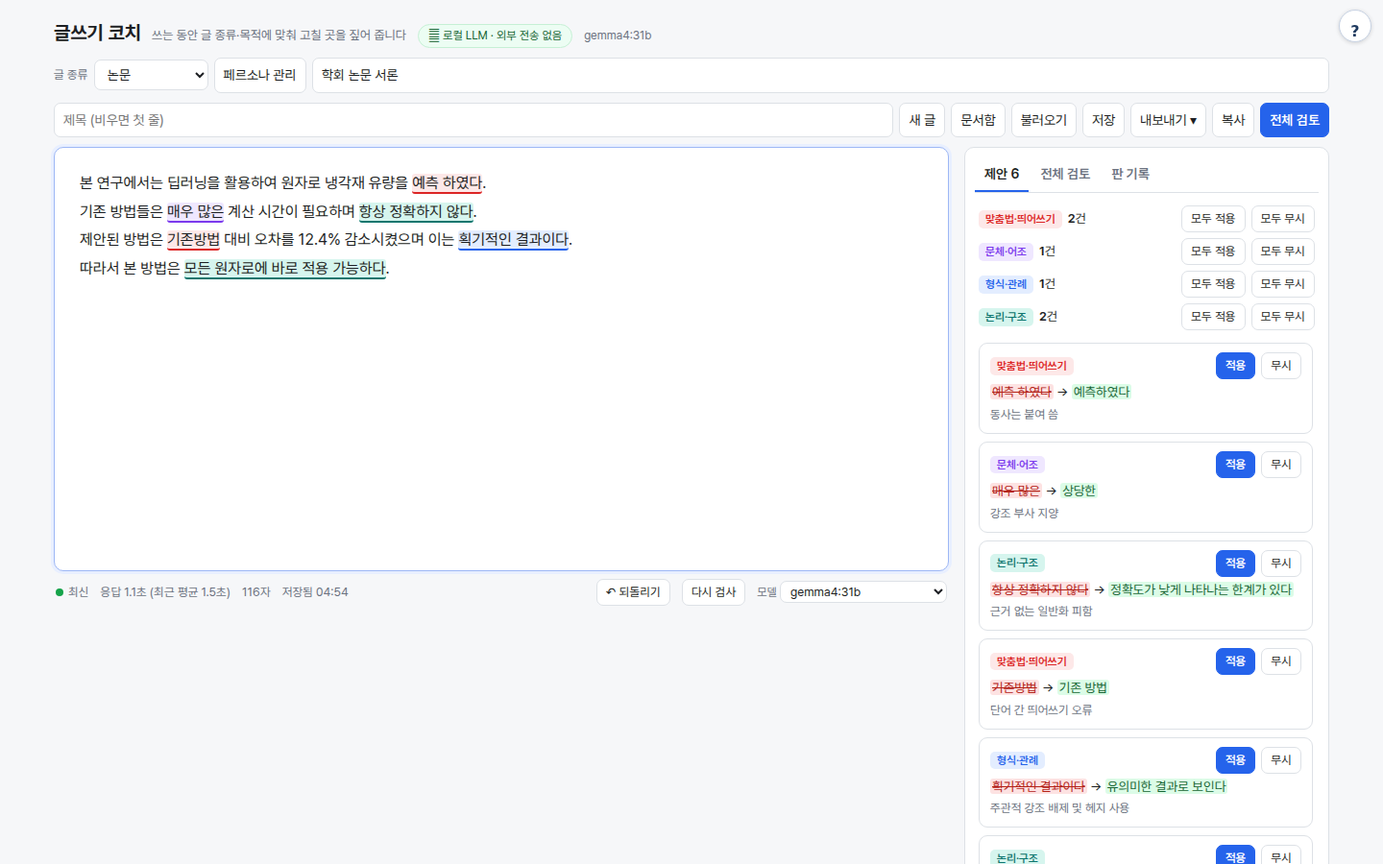
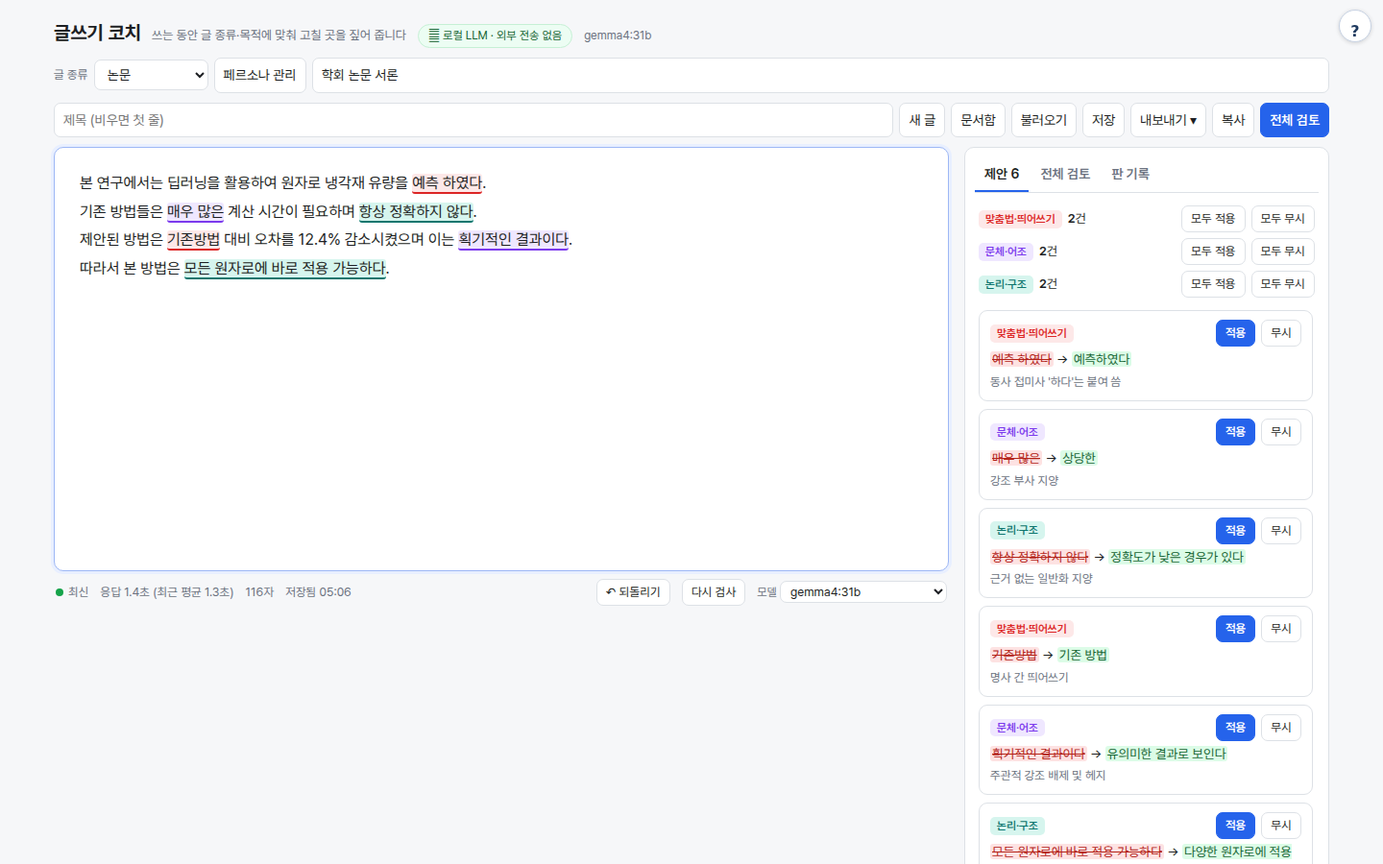
맞춤법 검사 분리·최소 수정·글 종류 어긋남 안내
- 맞춤법·띄어쓰기 전용 검사(작은 프롬프트·예시·어절 단위)를 따로 두고 먼저 표시, 문체 검사는 맞춤법을 내지 않음
- 고정 시험 15개 오류: 검출 8/15 → 15/15 (예시에 없는 오류 8/8)
- 문장 60% 넘게 바꾸는 제안은 문체·논리만, 나머지는 글자 비교로 바뀐 어절만 떼어 냄; 겹치면 맞춤법·짧은 쪽 우선
- 글 종류가 어긋나 보이면 한 번 묻는 안내(문장 끝 모양 + 전체 검토 판단), 그동안은 최소 조각만
- 사실 확인은 확인 가능한 구체적 내용만, 맞는 값이 있으면 적용 가능
- 대기 0.8초, 한 번에 한 요청(쓰는 문단 우선) — 맞춤법 밑줄 중앙 2.0초, 전부 3.3초

Changed region(s): [[0.6875, 0.28, 0.9375, 1.0], [0.8438, 0.3422, 0.9375, 0.56], [0.0938, 0.6533, 0.25, 0.7156]]

diff --git a/app.py b/app.py
@@ -198,39 +198,140 @@ CHECK_SYS = """너는 한국어 글쓰기 코치다. [글 종류]의 관례와 [
 [목적] {purpose}
 
 출력 JSON: {{"s":[{{"p":"문단번호","o":"원문 일부","n":"고친 말","r":"이유","c":"분류"}}]}}
-- o: 그 문단의 글자를 그대로 복사한 연속 구간(띄어쓰기·문장부호까지 같게). 고칠 곳을 포함하는 가장 짧은 구간(보통 2~15자).
-  맞춤법·띄어쓰기는 틀린 어절마다 따로 잡는다. 문장 전체를 다시 쓰는 제안은 꼭 필요할 때만 문단당 1개(맞춤법 제안과 겹쳐도 됨).
-- n: o 자리에 그대로 넣을 말. 뜻·숫자·고유명사는 바꾸지 않는다. 글에 없는 내용(관련 근거·날짜·문서번호 등)을 지어 넣거나 ○○·XX 자리표시를 쓰지 않는다 — 그런 지적은 하지 않는다.
-- r: 이유, 25자 이내.
-- c: 맞춤법(맞춤법·띄어쓰기·문장부호) | 문체(어조·높임·종결) | 형식(이 글 종류의 관례·표기) | 명료(모호·중복·장황) | 논리(연결·순서·근거) | 사실(확인할 날짜·수치·고유명사: n 은 o 와 같게, r 에 확인할 점)
-- 문단당 최대 6개, 확실한 것만. 없으면 {{"s":[]}}."""
+- 맞춤법·띄어쓰기는 다른 검사가 따로 하니 내지 않는다.
+- o: 그 문단의 글자를 그대로 복사한 연속 구간(띄어쓰기·문장부호까지 같게). 고칠 곳만 담은 가장 짧은 구간(보통 한두 어절).
+  문장을 통째로 바꾸는 제안은 문체·논리에서 꼭 필요할 때만, 문단당 1개.
+- n: o 자리에 그대로 넣을 말. 뜻·숫자·고유명사는 바꾸지 않는다. 글에 없는 내용(관련 근거·날짜·문서번호 등)을 지어 넣거나 ○○·XX 자리표시를 쓰지 않는다.
+- 글이 [글 종류]와 많이 달라 보이면(예: 공문서인데 메신저 말투) 문장 구조를 갈아엎지 말고 꼭 필요한 어휘·표기만 짚는다.
+- r: 이유, 20자 이내.
+- c: 문체(어조·높임·종결) | 형식(이 글 종류의 관례·표기) | 명료(모호·중복·장황) | 논리(연결·순서·근거) | 사실
+- 사실: 숫자·날짜·이름·인용처럼 확인할 수 있는 구체적 내용이 틀려 보이거나 서로 맞지 않을 때만(없는 날짜, 요일 불일치, 합계·인원 불일치 등). n 은 맞는 값(모르면 o 그대로), r 에 확인할 점. 막연한 의심은 내지 않는다.
+- 문단당 최대 4개, 확실한 것만. 없으면 {{"s":[]}}."""
+
+SPELL_SYS = """한국어 맞춤법·띄어쓰기 교정기. 문단마다 틀린 어절만 찾는다. 어조·어휘·문장 구조는 건드리지 않는다.
+출력 JSON: {{"s":[{{"p":"문단번호","o":"틀린 어절(문단 그대로)","n":"고친 어절","r":"15자 이내 이유"}}]}}
+- o 는 한 어절(띄어쓰기 오류면 두 어절)만. 문장 통째 금지. 틀린 곳이 없으면 {{"s":[]}}.
+- 글 종류: {kind}. 공문서·논문·보고서면 합성어 띄어쓰기 원칙도 적용(고속카메라→고속 카메라).
+자주 틀리는 예: 시일내에→시일 내에 / 할때→할 때 / 되요→돼요 / 몇일→며칠 / 않되요→안 돼요 / 어의없다→어이없다 / 학생으로써(자격)→학생으로서 / 대화로서(수단)→대화로써"""
+
+FULL_OK = ("문체", "논리")   # 문장을 크게 바꾸는 제안은 이 분류에서만
 
 
-def check(units, persona, purpose="", model=MODEL, stop=lambda: False):
-    """units = [{"id": "p3", "text": "..."}] → 자리가 확인된 제안 목록 + 버린 개수."""
+def _sentence_len(text, at, end):
+    """o 가 걸친 문장(들)의 길이 — 문장 끝(. ? ! 줄바꿈) 기준."""
+    a = max(text.rfind(ch, 0, at) for ch in ".?!\n") + 1
+    ends = [i for i in (text.find(ch, end) for ch in ".?!\n") if i >= 0]
+    return (min(ends) + 1 if ends else len(text)) - a
+
+
+def _split(o, n):
+    """글자 단위로 비교해 바뀐 곳을 어절 경계까지 넓힌 조각들 → [(o 안 위치, 원문 조각, 고친 조각)]. 통째로 바뀌었으면 []."""
+    from difflib import SequenceMatcher
+    sm, ps = SequenceMatcher(None, o, n, autojunk=False), []
+    if sm.ratio() < 0.5:  # 거의 다 바뀜 = 다시 쓰기 → 나누지 않음
+        return []
+    for tag, i1, i2, j1, j2 in sm.get_opcodes():
+        if tag == "equal":
+            continue
+        a, b = i1, i2
+        while a > 0 and not o[a - 1].isspace():
+            a -= 1
+        while b < len(o) and not o[b].isspace():
+            b += 1
+        if ps and a <= ps[-1][1]:  # 같은 어절(또는 맞닿은 곳)이면 합침
+            ps[-1][1], ps[-1][3] = b, j2 + (b - i2)
+        else:
+            ps.append([a, b, j1 - (i1 - a), j2 + (b - i2)])
+    if not ps or (len(ps) == 1 and ps[0][0] == 0 and ps[0][1] == len(o)):
+        return []
+    return [(a, o[a:b], n[x:y].strip()) for a, b, x, y in ps]
+
+
+def _accept(raw, by, cat_default, dropped, minimal=False):
+    """LLM 이 낸 제안 하나 → 자리 확인·정리된 제안 목록(0개 이상)."""
+    if not isinstance(raw, dict):
+        dropped.append("형식")
+        return []
+    pid, o, n = str(raw.get("p", "")).strip("[] "), str(raw.get("o") or ""), str(raw.get("n") or "")
+    if pid not in by and "p" + pid in by:  # "0" 처럼 p 를 빼고 답하는 경우
+        pid = "p" + pid
+    if pid not in by and len(by) == 1:
+        pid = next(iter(by))
+    c = cat_default or next((k for k in CATS if k in str(raw.get("c", ""))), "명료")
+    r, text = str(raw.get("r") or "")[:80], by.get(pid)
+    if not cat_default and c == "맞춤법":  # 문체 검사는 맞춤법을 내지 않는다(맞춤법 검사 몫)
+        c = None
+    if not c or not text or not o or o not in text or (o == n and c != "사실") or PLACEHOLDER.search(n) or len(n) > 2 * len(o) + 20:
+        dropped.append(o)
+        return []
+    at = text.index(o)
+    big = len(o) >= 15 and len(o) > 0.6 * _sentence_len(text, at, at + len(o)) and c != "사실"
+    if big and minimal:  # 글 종류가 어긋나 보일 때: 문장 갈아엎기는 내지 않고 최소 조각만
+        parts = [x for x in _split(o, n) if x[1] != x[2]]
+        if not parts or len(parts) > 3:
+            dropped.append(o)
+            return []
+        return [{"p": pid, "o": po, "n": pn, "r": r, "c": c, "at": at + off} for off, po, pn in parts]
+    if (big and c not in FULL_OK) or (cat_default == "맞춤법" and len(o.split()) > 2):  # 크게 바꾸는 제안 → 최소 조각으로
+        parts = _split(o, n)
+        if not parts or len(parts) > 3:
+            dropped.append(o)
+            return []
+        return [{"p": pid, "o": po, "n": pn, "r": r, "c": c, "at": at + off} for off, po, pn in parts if po != pn]
+    if big and not r:
+        dropped.append(o)
+        return []
+    return [{"p": pid, "o": o, "n": n, "r": r, "c": c, "at": at}]
+
+
+def _dedupe(items):
+    """같은 문단에서 겹치면 맞춤법, 그다음 짧은 쪽을 남긴다. 단, 문체·논리의 문장 다시 쓰기는 겹쳐도 카드로 남긴다(밑줄은 짧은 쪽)."""
+    out, seen = [], set()
+    for s in sorted(items, key=lambda s: (s["c"] != "맞춤법", len(s["o"]))):   # 맞춤법(어절 단위) 먼저, 그다음 짧은 것
+        if (s["p"], s["o"], s["n"]) in seen:
+            continue
+        clash = any(t["p"] == s["p"] and s["at"] < t["at"] + len(t["o"]) and t["at"] < s["at"] + len(s["o"]) for t in out)
+        if clash and not (s["c"] in FULL_OK and len(s["o"]) >= 15):
+            continue
+        seen.add((s["p"], s["o"], s["n"]))
+        out.append(s)
+    return sorted(out, key=lambda s: (s["p"], s["at"]))
+
+
+def check(units, persona, purpose="", model=MODEL, stop=lambda: False, passes=("spell", "style"), minimal=False):
+    """units = [{"id": "p3", "text": "..."}] → 자리가 확인된 제안 목록 + 버린 개수.
+    맞춤법 검사(작은 프롬프트, 어절 단위)와 문체·형식 검사를 따로 묻는다. 화면은 맞춤법 → 문체 순으로 따로 불러 먼저 온 것부터 보이고,
+    둘 다 부르면(CLI·기본) 동시에 돌려 합친다."""
     units = [{"id": str(u["id"])[:20], "text": str(u["text"])[:3000]} for u in units if str(u.get("text", "")).strip()][:20]
     if not units:
         return {"s": [], "dropped": 0}
-    system = CHECK_SYS.format(persona=persona_text(persona), purpose=(purpose or "").strip()[:200] or "(없음)")
+    p = clean_persona(persona)
     user = "\n".join(f"[{u['id']}] {u['text']}" for u in units)
-    got = llm(system, user, model, stop).get("s") or []
-    by = {u["id"]: u["text"] for u in units}
-    out, dropped, seen = [], 0, set()
-    for s in got if isinstance(got, list) else []:
-        if not isinstance(s, dict):
-            continue
-        pid, o, n = str(s.get("p", "")).strip("[] "), str(s.get("o") or ""), str(s.get("n") or "")
-        if pid not in by and len(by) == 1:
-            pid = next(iter(by))
-        c = next((k for k in CATS if k in str(s.get("c", ""))), "명료")
-        text = by.get(pid)
-        if (not text or not o or o not in text or (o == n and c != "사실") or (pid, o) in seen
-                or PLACEHOLDER.search(n) or len(n) > 2 * len(o) + 20):  # 자리표시·내용 지어내기는 버림
-            dropped += 1
-            continue
-        seen.add((pid, o))
-        out.append({"p": pid, "o": o, "n": n, "r": str(s.get("r") or "")[:80], "c": c, "at": text.index(o)})
-    return {"s": out, "dropped": dropped}
+    jobs = {"style": (CHECK_SYS.format(persona=persona_text(p), purpose=(purpose or "").strip()[:200] or "(없음)"), None),
+            "spell": (SPELL_SYS.format(kind=p["name"]), "맞춤법")}
+    jobs = {k: v for k, v in jobs.items() if k in passes}
+    res = {}
+
+    def run(k):
+        try:
+            res[k] = llm(jobs[k][0], user, model, stop).get("s") or []
+        except Exception as e:  # noqa: BLE001 — 한쪽이 실패해도 다른 쪽 결과는 살린다
+            res[k] = e
+    ts = [threading.Thread(target=run, args=(k,)) for k in jobs]
+    [t.start() for t in ts]
+    [t.join() for t in ts]
+    errs = [v for v in res.values() if isinstance(v, Exception)]
+    if any(isinstance(e, Cancelled) for e in errs):
+        raise Cancelled()
+    if len(errs) == len(jobs):
+        raise errs[0]
+    by, dropped, items = {u["id"]: u["text"] for u in units}, [], []
+    for k, got in res.items():
+        if isinstance(got, list):
+            for raw in got:
+                items += _accept(raw, by, jobs[k][1], dropped, minimal)
+    out = _dedupe(items)
+    return {"s": out, "dropped": len(dropped) + len(items) - len(out), **({"partial": str(errs[0])[:120]} if errs else {})}
 
 
 REVIEW_SYS = """너는 한국어 글쓰기 코치다. 글 전체를 [글 종류]의 관례와 [목적]에 비추어 검토한다.
@@ -238,7 +339,7 @@ REVIEW_SYS = """너는 한국어 글쓰기 코치다. 글 전체를 [글 종류]
 [목적] {purpose}
 
 문장 단위 맞춤법은 빼고, 구조·흐름·빠진 요소·목적 부합을 본다(예: 공문의 '끝.'·붙임 누락, 메일의 기한 누락, 논문의 근거 없는 주장).
-출력 JSON: {{"summary":"총평 2문장 이내","good":["잘된 점(최대 3)"],"issues":[{{"q":"관련 원문 일부(그대로 복사, 글 전체 문제면 빈 문자열)","t":"문제","f":"고칠 방향 또는 예시 문장","c":"형식|논리|명료|문체|사실"}}]}}
+출력 JSON: {{"kind":"이 글에 가장 맞는 글 종류 — {kinds} 중 하나","summary":"총평 2문장 이내","good":["잘된 점(최대 3)"],"issues":[{{"q":"관련 원문 일부(그대로 복사, 글 전체 문제면 빈 문자열)","t":"문제","f":"고칠 방향 또는 예시 문장","c":"형식|논리|명료|문체|사실"}}]}}
 issues 는 중요한 순서로 최대 7개."""
 
 
@@ -246,14 +347,15 @@ def review(text, persona, purpose="", model=MODEL):
     text = (text or "").strip()[:12000]
     if not text:
         raise ValueError("검토할 글이 없습니다")
-    j = llm(REVIEW_SYS.format(persona=persona_text(persona), purpose=(purpose or "").strip()[:200] or "(없음)"), text, model)
+    kinds = [p["name"] for p in BUILTIN]
+    j = llm(REVIEW_SYS.format(persona=persona_text(persona), purpose=(purpose or "").strip()[:200] or "(없음)", kinds="·".join(kinds)), text, model)
     issues = []
     for i in j.get("issues") or []:
         if isinstance(i, dict) and i.get("t"):
             q = str(i.get("q") or "")
             issues.append({"q": q if q and q in text else "", "t": str(i["t"])[:200], "f": str(i.get("f") or "")[:400],
                            "c": next((k for k in CATS if k in str(i.get("c", ""))), "논리")})
-    return {"summary": str(j.get("summary") or "")[:400], "good": [str(x)[:200] for x in (j.get("good") or [])][:3], "issues": issues[:7]}
+    return {"kind": next((k for k in kinds if k == str(j.get("kind") or "").strip()), ""), "summary": str(j.get("summary") or "")[:400], "good": [str(x)[:200] for x in (j.get("good") or [])][:3], "issues": issues[:7]}
 
 
 # ── 문서 저장·기록 ──────────────────────────────────────────────────────────
@@ -456,7 +558,8 @@ class H(BaseHTTPRequestHandler):
                 rid, t0 = (who, str(req.get("rid") or "")), time.time()
                 stop = lambda: rid in CANCEL or _gone(self.connection)
                 try:
-                    r = check(req.get("units") or [], req.get("persona") or BUILTIN[0], req.get("purpose") or "", req.get("model") or MODEL, stop)
+                    ps = (req["pass"],) if req.get("pass") in ("spell", "style") else ("spell", "style")
+                    r = check(req.get("units") or [], req.get("persona") or BUILTIN[0], req.get("purpose") or "", req.get("model") or MODEL, stop, ps, bool(req.get("minimal")))
                 except Cancelled:
                     return self._send({"cancelled": True}, code=499)
                 finally:

diff --git a/selftest.py b/selftest.py
@@ -17,14 +17,17 @@ def fake(system, user, model=None, stop=lambda: False):
     if stop():
         raise app.Cancelled()
     if "글 전체를" in system:
-        return {"summary": "요청이 뒤에 있습니다.", "good": ["날짜 표기 정확"], "issues": [
+        return {"kind": "메시지·메일", "summary": "요청이 뒤에 있습니다.", "good": ["날짜 표기 정확"], "issues": [
             {"q": "참석 바랍니다요", "t": "요청이 끝에 묻힘", "f": "첫 항목으로", "c": "논리"},
             {"q": "본문에 없는 말", "t": "붙임 누락", "f": "붙임 표기", "c": "형식 관례"}]}
+    if "교정기" in system:  # 맞춤법 검사: 어절 단위
+        return {"s": [{"p": "p0", "o": "월요일 에", "n": "월요일에", "r": "조사는 붙여 씀"},
+                      {"p": "p0", "o": "다음주 월요일 에 할", "n": "다음 주 월요일에 할", "r": "띄어쓰기"},   # 3어절 → 조각으로 나눔
+                      {"p": "p0", "o": "없는 조각", "n": "x"}]}                                            # 문단에 없음 → 버림
     return {"s": [
-        {"p": "p0", "o": "월요일 에", "n": "월요일에", "r": "조사는 붙여 씀", "c": "맞춤법"},
+        {"p": "p0", "o": "월요일 에", "n": "월요일에", "r": "맞춤법은 맞춤법 검사 몫", "c": "맞춤법"},   # 문체 검사의 맞춤법 → 버림
         {"p": "[p0]", "o": "바랍니다요", "n": "바람", "r": "공문 종결", "c": "문체·어조"},
-        {"p": "p0", "o": "없는 조각", "n": "x", "r": "", "c": "맞춤법"},          # 문단에 없음 → 버림
-        {"p": "p0", "o": "월요일 에", "n": "월요일에", "r": "중복", "c": "맞춤법"},  # 같은 자리 중복 → 버림
+        {"p": "p0", "o": "회의는 다음주 월요일 에 할 예정임.", "n": "회의는 다음 주 월요일에 열 예정임.", "r": "x", "c": "형식"},  # 문장 대부분 → 조각, 겹치면 짧은 쪽
         {"p": "p1", "o": "12,000,000원", "n": "12,000,000원", "r": "견적서 금액과 대조", "c": "사실"},
         {"p": "p1", "o": "견적", "n": "견적", "r": "같은 말", "c": "명료"},          # 바뀐 것 없음 → 버림
         {"p": "p9", "o": "x", "n": "y", "c": "맞춤법"}]}
@@ -48,11 +51,19 @@ assert app.clean_persona({"name": "x", "rules": "a\n\n b "})["rules"] == ["a", "
 # 2) 문단 검사: 원문에 있는 조각만, 분류 정규화, 위치
 units = [{"id": "p0", "text": "회의는 다음주 월요일 에 할 예정임. 참석 바랍니다요."}, {"id": "p1", "text": "금액: 12,000,000원(견적 기준)"}]
 r = app.check(units, P, "부서장 승인 요청")
-got = [(s["p"], s["o"], s["c"]) for s in r["s"]]
-assert got == [("p0", "월요일 에", "맞춤법"), ("p0", "바랍니다요", "문체"), ("p1", "12,000,000원", "사실")], got
-assert r["dropped"] == 4, r["dropped"]
+got = [(s["p"], s["o"], s["n"], s["c"]) for s in r["s"]]
+assert got == [("p0", "다음주", "다음 주", "맞춤법"), ("p0", "월요일 에", "월요일에", "맞춤법"), ("p0", "할", "열", "형식"),
+               ("p0", "바랍니다요", "바람", "문체"), ("p1", "12,000,000원", "12,000,000원", "사실")], got
+assert r["dropped"] == 7, r["dropped"]
+assert [s["c"] for s in app.check(units, P, passes=("spell",))["s"]] == ["맞춤법"] * 2
+assert app._accept({"p": "1", "o": "가", "n": "카"}, {"p0": "x", "p1": "가 나"}, "맞춤법", [])[0]["p"] == "p1"   # "1" → p1
+_big = {"p": "p0", "o": "회의는 다음주 월요일 에 할 예정임.", "n": "회의는 다음 주 월요일에 할 예정임.", "r": "x", "c": "문체"}
+assert len(app._accept(_big, {"p0": _big["o"]}, None, [])) == 1                                        # 문체 다시 쓰기는 통째로
+assert [x["o"] for x in app._accept(_big, {"p0": _big["o"]}, None, [], minimal=True)] == ["다음주", "월요일 에"]  # 글 종류 어긋남 → 조각만
+assert app._split("가 나 다", "가 라 다") == [(2, "나", "라")] and app._split("가 나", "라 마") == []
 assert all(units[int(s["p"][1])]["text"][s["at"]:].startswith(s["o"]) for s in r["s"])
-assert "부서장 승인 요청" in SEEN[-1][0] and "[p1] 금액" in SEEN[-1][1]
+sty = [x for x in SEEN if "교정기" not in x[0]][-1]
+assert "부서장 승인 요청" in sty[0] and "[p1] 금액" in sty[1] and any("교정기" in x[0] and "공문서" in x[0] for x in SEEN)
 assert app.check([{"id": "p0", "text": "  "}], P) == {"s": [], "dropped": 0}
 try:
     app.check(units, P, stop=lambda: True); assert False
@@ -61,6 +72,7 @@ except app.Cancelled:
 
 # 3) 전체 검토: 본문에 없는 인용은 비움
 rv = app.review("회의는 월요일. 참석 바랍니다요.", P)
+assert rv["kind"] == "메시지·메일" and "메시지·메일" in SEEN[-1][0]
 assert rv["issues"][0]["q"] == "참석 바랍니다요" and rv["issues"][1]["q"] == "" and rv["issues"][1]["c"] == "형식"
 
 # 4) 문서 저장·판 기록
@@ -96,7 +108,9 @@ def call(path, body=None, user=None):
 
 
 c, b = call("/api/check", {"rid": "r1", "units": units, "persona": P, "purpose": ""})
-assert c == 200 and len(json.loads(b)["s"]) == 3 and "ms" in json.loads(b)
+assert c == 200 and len(json.loads(b)["s"]) == 5 and "ms" in json.loads(b)
+c, b = call("/api/check", {"rid": "r2", "pass": "style", "units": units, "persona": P})
+assert c == 200 and "맞춤법" not in [s["c"] for s in json.loads(b)["s"]]
 c, b = call("/api/docs", {"text": "앨리스 글"}, "alice")
 aid = json.loads(b)["id"]
 assert os.path.exists(os.path.join(TMP, "u", "alice", "docs", aid + ".json"))

diff --git a/README.md b/README.md
@@ -6,8 +6,11 @@
 
 ## 무엇을 하나
 
-- **준실시간 제안**: 타이핑을 멈추고 약 1.2초가 지나면, 바뀐 문단만 LLM에 보냅니다. 지금 쓰는 문단은 따로 먼저 보내고, 나머지 문단은 2개 요청으로 나눠 동시에 보냅니다. 그사이 지워지거나 바뀐 문단의 요청은 취소합니다(브라우저 요청을 끊고, 서버도 LLM 생성을 멈춤).
+- **준실시간 제안**: 타이핑을 멈추고 0.8초가 지나면 바뀐 문단만 LLM에 보냅니다. 검사는 두 가지를 따로 합니다. **맞춤법·띄어쓰기 검사**는 작은 프롬프트에 자주 틀리는 예를 넣어 어절 단위로만 답하게 하고, 먼저 돌려 밑줄을 먼저 띄웁니다. **문체·형식 검사**는 페르소나와 목적에 맞춰 그다음에 돌립니다. 지금 쓰는 문단을 먼저 보고, 한 GPU에서 둘을 동시에 돌리면 둘 다 느려지므로 한 번에 하나씩 보냅니다. 그사이 지워지거나 바뀐 문단의 요청은 취소합니다(브라우저 요청을 끊고, 서버도 LLM 생성을 멈춤).
 - **자리가 정확한 제안**: LLM이 돌려준 "원문 조각"이 그 문단에 글자 그대로 있을 때만 제안을 남기고, 찾지 못한 제안은 버립니다. 자리표시(○○, XX)를 넣거나 글에 없는 내용을 지어낸 제안도 버립니다.
+- **최소 수정**: 문장의 60% 넘게 바꾸는 제안은 문체·어조와 논리·구조에서만, 이유가 있을 때만 남깁니다. 다른 분류는 글자 단위로 비교해 바뀐 어절만 따로 떼어 냅니다. 두 검사의 제안이 겹치면 맞춤법을 먼저, 그다음 짧은 쪽을 남깁니다. 문장 다시 쓰기는 밑줄 없이 카드로만 남습니다.
+- **글 종류 어긋남 안내**: 공문서로 골라 놓고 메신저 말투로 쓰는 경우처럼 글이 고른 종류와 달라 보이면, 줄마다 갈아엎는 대신 위쪽에 한 번 "글 종류가 '메시지·메일'에 가까워 보여요 — 바꿀까요?"라고 묻습니다. 문장 끝 모양으로 싸게 짐작하고, **전체 검토**의 판단도 씁니다. 안내가 떠 있는 동안에는 최소 조각만 제안합니다.
+- **사실 확인 필요**: 숫자·날짜·이름·인용처럼 확인할 수 있는 구체적 내용이 틀려 보일 때만 냅니다(없는 날짜, 요일 불일치, 인원·합계 불일치). 맞는 값을 알면 적용할 수 있고, 모르면 "확인함"만 누를 수 있습니다.
 - **6가지 분류**: 맞춤법·띄어쓰기 / 문체·어조 / 형식·관례 / 명료성·간결 / 논리·구조 / 사실 확인 필요. 제안마다 원문 → 제안, 짧은 이유를 보여 줍니다. 하나씩 **적용·무시**할 수도 있고, 분류별로 **모두 적용·모두 무시**할 수도 있습니다. 되돌리기는 **Ctrl+Z**를 그대로 쓰면 됩니다.
 - **페르소나 = JSON 하나**: 이름·대상 독자·어조·형식 규칙·금지/주의·예시. 공문서·편지·논문·사설·칼럼·메시지·메일·보고서·보도자료·자기소개서 8개가 기본으로 들어 있습니다. 기본 페르소나를 복제해 양식이나 JSON으로 고치면 내 페르소나가 됩니다.
 - **전체 검토**: 맞춤법은 빼고, 구조·흐름·빠진 요소(공문의 '끝.'·붙임, 메일의 기한 등)와 목적에 맞는지를 짚습니다.
@@ -20,11 +23,17 @@
 포털을 거치면 `http://<포털>:8700/t/coach-local/`, 단독으로 실행하면 `http://localhost:8798` 화면에서 씁니다.
 
 1. **글 종류와 목적을 정한다** — 맨 위 **글 종류**에서 페르소나를 고르고, **목적 한 줄**을 적습니다(예: "부서장에게 고속 카메라 구매 승인 요청"). 제안이 이 둘에 맞춰집니다. (그림 ③)
-2. **쓰다가 멈춘다** — 편집기에 글을 씁니다. 1초쯤 멈추면 바뀐 문단에 색 밑줄이 생기고(색은 분류), 오른쪽에 제안 카드가 쌓입니다.
+2. **쓰다가 멈춘다** — 편집기에 글을 씁니다. 1초쯤 멈추면 맞춤법 밑줄이 먼저, 이어서 문체·형식 밑줄이 바뀐 문단에 색 밑줄이 생기고(색은 분류), 오른쪽에 제안 카드가 쌓입니다.
 3. **적용하거나 무시한다** — 밑줄을 누르면 그 자리에 제안 상자가 뜹니다(그림 ①). 카드에서 하나씩 처리해도 되고, 분류별 **모두 적용**을 눌러도 됩니다(그림 ②). 잘못 바꿨으면 **↶ 되돌리기** 또는 Ctrl+Z를 누릅니다.
 4. **전체 검토 후 내보낸다** — **전체 검토**로 구조와 빠진 요소를 확인하고, **내보내기**(.txt·.md·.docx)나 **복사**로 가져갑니다.
 
 부서 양식이 따로 있으면 **페르소나 관리**에서 가까운 기본 페르소나를 **복제**한 뒤 규칙을 고쳐 저장하세요. JSON 탭에서 통째로 붙여 넣어도 됩니다.
+
+<details><summary>글 종류 어긋남 안내 — 메신저 말투를 '공문서'로 검사할 때</summary>
+
+![글 종류 안내](docs/img/coach-kind.png)
+
+</details>
 
 <details><summary>페르소나 관리 화면 — ① 복제 ② 양식 편집 ③ JSON 편집</summary>
 
@@ -36,7 +45,7 @@
 
 아래는 `gemma4:31b`(GPU Ollama)로 실제 실행한 결과입니다.
 
-**논문** 페르소나, 목적 "학회 논문 서론". 한 문단을 쓰고 멈출 때마다 측정했습니다. 마지막 키 입력부터 제안이 뜰 때까지 2.3~3.3초, 중앙값 2.6초가 걸렸습니다. 여기에는 1.2초 대기가 들어 있고, LLM 응답만 보면 1.1~2초입니다.
+**논문** 페르소나, 목적 "학회 논문 서론". 한 문단을 쓰고 멈출 때마다 측정했습니다. 마지막 키 입력부터 맞춤법 밑줄이 뜰 때까지 1.8~2.6초(중앙값 2.0초), 문체·형식 제안까지 다 뜨는 데 3.2~4.1초(중앙값 3.3초)가 걸렸습니다. 여기에는 0.8초 대기가 들어 있습니다. 페르소나를 바꾼 직후의 첫 문단이 가장 느립니다.
 
 ![논문 페르소나 예시](docs/img/coach-paper.png)
 
@@ -49,18 +58,20 @@
 따라서 본 방법은 모든 원자로에 바로 적용 가능하다.
 ```
 
-제안(6건):
+제안(6건, 겹치는 같은 수정 1건은 하나로):
 
 | 분류 | 원문 → 제안 | 이유 |
 |---|---|---|
-| 맞춤법·띄어쓰기 | 예측 하였다 → 예측하였다 | 동사는 붙여 씀 |
+| 맞춤법·띄어쓰기 | 예측 하였다 → 예측하였다 | 붙여 씀 |
 | 문체·어조 | 매우 많은 → 상당한 | 강조 부사 지양 |
-| 논리·구조 | 항상 정확하지 않다 → 정확도가 낮게 나타나는 한계가 있다 | 근거 없는 일반화 피함 |
-| 맞춤법·띄어쓰기 | 기존방법 → 기존 방법 | 단어 간 띄어쓰기 오류 |
-| 형식·관례 | 획기적인 결과이다 → 유의미한 결과로 보인다 | 주관적 강조 배제 및 헤지 사용 |
-| 논리·구조 | 모든 원자로에 바로 적용 가능하다 → 다양한 원자로에 적용될 가능성이 있다 | 근거 없는 일반화 및 단정 피함 |
+| 논리·구조 | 항상 정확하지 않다 → 정확도가 낮은 경우가 있다 | 근거 없는 일반화 |
+| 맞춤법·띄어쓰기 | 기존방법 → 기존 방법 | 띄어쓰기 |
+| 문체·어조 | 획기적인 결과이다 → 유의미한 결과로 보인다 | 주관적 강조 대신 헤지 |
+| 논리·구조 | 모든 원자로에 바로 적용 가능하다 → 다양한 원자로에 적용 가능할 것으로 보인다 | 근거 없는 단정 |
 
-**공문서**로 일부러 엉성하게 쓴 구매 승인 요청(위 그림)에서는 7줄을 쉬지 않고 한꺼번에 입력했습니다. 마지막 입력 후 첫 제안까지 약 6.6초, 7줄 제안이 다 뜨기까지 약 9초가 걸렸습니다. 페르소나를 바꾼 직후의 첫 요청은 프롬프트를 새로 읽느라 더 느립니다(이번 실행 5.2초, 이후 한 문단 요청은 1.5~3초). 제안에는 "일천이백만원 → 금 12,000,000원(금 일천이백만 원)", "오래되서 → 노후되어", 구어체 문장을 개조식 "~바람"으로 바꾸기 등이 있었습니다. **전체 검토**(약 7초)는 '관련' 근거 항목, 본문 끝의 '끝.'과 붙임 표기, 날짜 표기(2026. 11. 30.)가 빠졌다고 짚었습니다.
+**맞춤법 검출률**: 공문·메시지·논문 문단 8개에 일부러 넣은 맞춤법·띄어쓰기 오류 15개로 고정 시험을 했습니다. 15개 중 8개는 프롬프트의 예시에 없는 오류입니다(오래되서·금새·끝날거에요·역활·왠만하면·데이타·공개 하였다·있슴). 한 번에 검사하던 이전 방식은 7/14, 8/15를 찾았고, 맞춤법 검사를 따로 둔 지금은 두 번 돌려 두 번 다 15/15를 찾았습니다(예시에 없는 것 8/8). "2026. 2. 30.(화)"(없는 날짜)와 "총 3명(4명의 이름)"을 넣은 문단에서는 둘 다 **사실 확인 필요**가 떴습니다. 다만 여러 줄을 한꺼번에 검사할 때는 사실 확인이 빠지기도 해서, 그 경우는 **전체 검토**가 잡았습니다.
+
+**공문서**로 일부러 엉성하게 쓴 구매 승인 요청(위 그림)에서는 7줄을 쉬지 않고 한꺼번에 입력했습니다. 마지막 입력 후 첫 제안까지 약 6.6초, 7줄 제안이 다 뜨기까지 약 9초가 걸렸습니다. 페르소나를 바꾼 직후의 첫 요청은 프롬프트를 새로 읽느라 더 느립니다(이번 실행 5.2초, 이후 한 문단 요청은 1.5~3초). 이 숫자는 검사를 둘로 나누기 전의 첫 실행 기준입니다. 제안에는 "일천이백만원 → 금 12,000,000원(금 일천이백만 원)", "오래되서 → 노후되어", 구어체 문장을 개조식 "~바람"으로 바꾸기 등이 있었습니다. **전체 검토**(약 7초)는 '관련' 근거 항목, 본문 끝의 '끝.'과 붙임 표기, 날짜 표기(2026. 11. 30.)가 빠졌다고 짚었습니다.
 
 제안은 LLM의 의견입니다. 틀린 맞춤법을 놓치거나, 고치지 않아도 될 곳을 고치라고 할 수 있습니다. 숫자와 고유명사는 직접 확인하세요.
 
